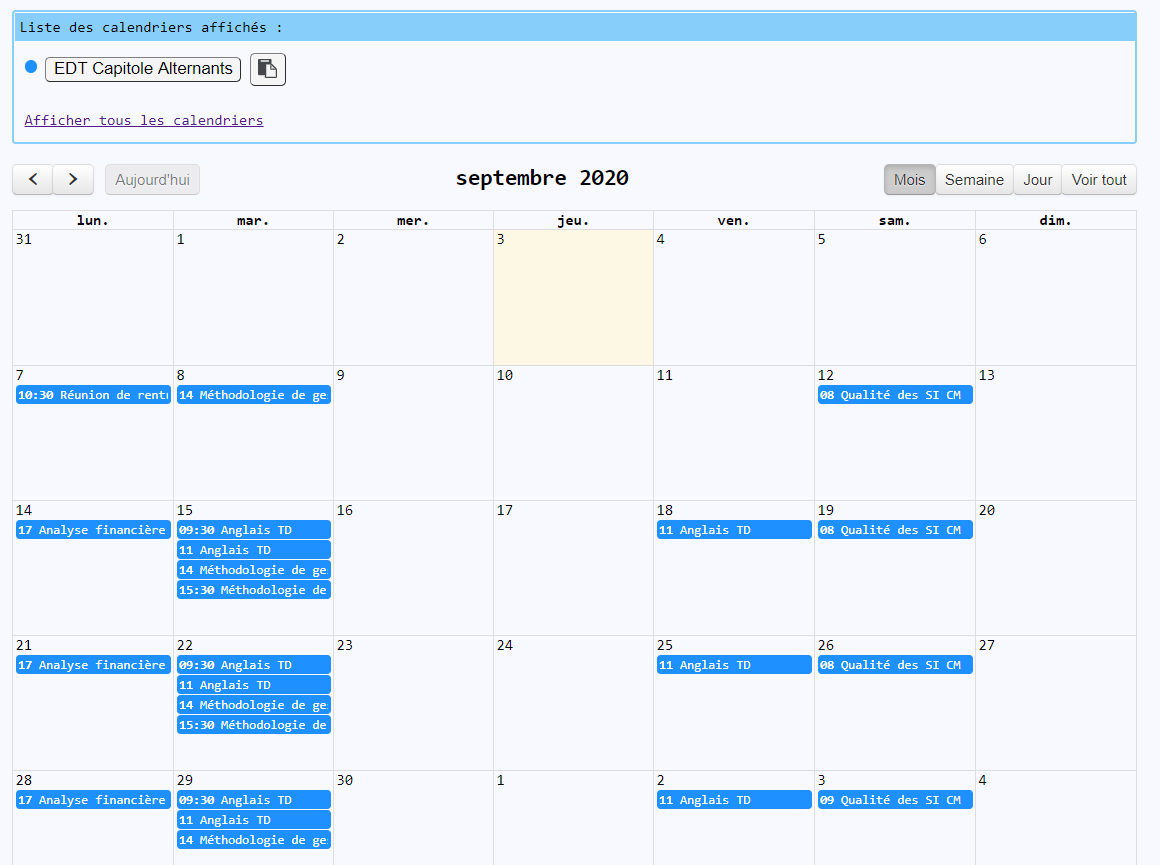
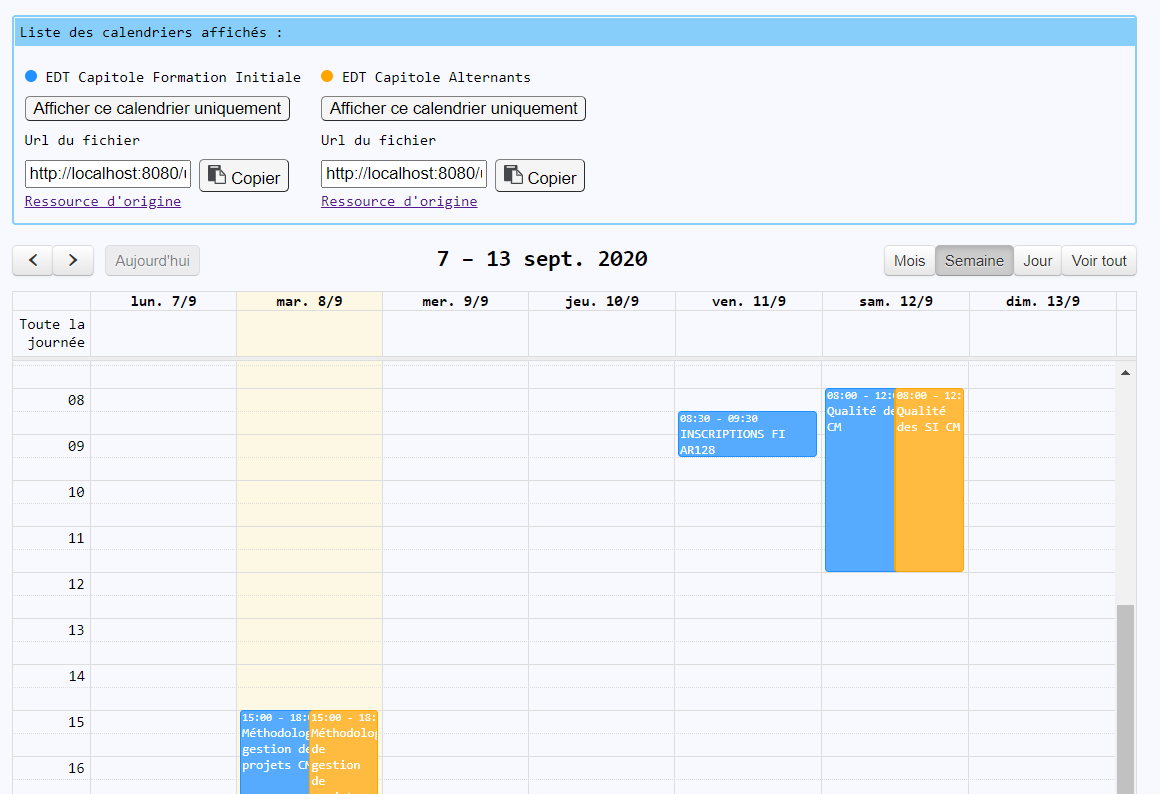
Preview improved + better UI

diff --git a/assets/js/custom_display.js b/assets/js/custom_display.js
@@ -1,9 +1,9 @@
 // Edit your ics sources here
 
 const all_ics_sources = [
-    // { url: 'ut3.ics?v=' + Date.now(), title: 'EDT Paul Sabatier', event_properties: { color: 'SeaGreen' } },
-    { url: 'ut1_fi.ics?v=' + Date.now(), sources: "https://ade-production.ut-capitole.fr/direct/index.jsp?showTree=false&days=0,1,2,3,4,5&login=visu&password=visu&locale=fr&projectId=17&resources=2273", title: 'EDT Capitole Formation Initiale', event_properties: { color: 'DodgerBlue' } },
-    { url: 'ut1_fa.ics?v=' + Date.now(), sources: "https://ade-production.ut-capitole.fr/direct/index.jsp?showTree=false&days=0,1,2,3,4,5&login=visu&password=visu&locale=fr&projectId=17&resources=3674", title: 'EDT Capitole Alternants', event_properties: { color: 'orange' } },
+    // { url: 'ut3.ics?v=' + Date.now(), source: "https://www.raphaelbuquet.com/tools/edt/", title: 'EDT Paul Sabatier', event_properties: { color: 'red' } },
+    { url: 'ut1_fi.ics?v=' + Date.now(), source: "https://ade-production.ut-capitole.fr/direct/index.jsp?showTree=false&days=0,1,2,3,4,5&login=visu&password=visu&locale=fr&projectId=17&resources=2273", title: 'EDT Capitole Formation Initiale', event_properties: { color: 'DodgerBlue' } },
+    { url: 'ut1_fa.ics?v=' + Date.now(), source: "https://ade-production.ut-capitole.fr/direct/index.jsp?showTree=false&days=0,1,2,3,4,5&login=visu&password=visu&locale=fr&projectId=17&resources=3674", title: 'EDT Capitole Alternants', event_properties: { color: 'orange' } },
 ]
 
 ////////////////////////////////////////////////////////////////////////////
@@ -60,7 +60,7 @@ $(document).ready(function () {
                             <span id="tooltip${cpt}">Copier</span>
                         </button>
                     </div>
-                    <a href="">Lien d'origine</a>
+                    <a href="${ics.source}" target="_blank">Ressource d'origine</a>
                 </div>
             </div>`);
 
@@ -113,7 +113,7 @@ $(document).ready(function () {
             eventLimit: true, // allow "more" link when too many events
             eventRender: function (event, element, view) {
                 if (view.name == "listMonth" || view.name == "listWeek") {
-                    element.find('.fc-list-item-title').append('<div style="margin-top:5px;"></div><span style="font-size: 0.9em">' + (event.description || 'no description') + '</span>' + ((event.loc) ? ('<span style="margin-top:5px;display: block"><b>Venue: </b>' + event.loc + '</span>') : ' ') + '</div>');
+                    element.find('.fc-list-item-title').append('<div style="margin-top:5px;"></div><span style="font-size: 0.9em">' + (event.description || 'no description') + '</span>' + ((event.loc) ? ('<span style="margin-top:5px;display: block"><b>Lieu: </b>' + event.loc + '</span>') : ' ') + '</div>');
                 } else if (view.name == "agendaWeek" || view.name == "agendaDay") {
                     element.qtip({
                         content: {
@@ -123,7 +123,7 @@ $(document).ready(function () {
                                         + ' - ' + event.end.format("HH:mm"))) + '</small><br/>' +
                                 '<b>' + event.title + '</b>' +
                                 ((event.description) ? ('<br/>' + event.description) : ' ') +
-                                ((event.loc) ? ('<br/><b>Venue: </b>' + event.loc) : ' ')
+                                ((event.loc) ? ('<br/><b>Lieu: </b>' + event.loc) : ' ')
                         },
                         style: {
                             classes: 'qtip-bootstrap qtip-rounded qtip-shadown qtip-light',
@@ -142,7 +142,7 @@ $(document).ready(function () {
                                         + ' - ' + event.end.format("HH:mm"))) + '</small><br/>' +
                                 '<b>' + event.title + '</b>' +
                                 ((event.description) ? ('<br/>' + event.description) : ' ') +
-                                ((event.loc) ? ('<br/><b>Venue: </b>' + event.loc) : ' ')
+                                ((event.loc) ? ('<br/><b>Lieu: </b>' + event.loc) : ' ')
                         },
                         style: {
                             classes: 'qtip-bootstrap qtip-rounded qtip-shadown qtip-light',

diff --git a/src/util/filesPath.js b/src/util/filesPath.js
@@ -11,8 +11,9 @@ module.exports = {
     },
     // Pour trouver ces URL, il faut aller à l'adresse suivante :
     // https://ade-production.ut-capitole.fr/direct/index.jsp?showTree=true&projectId=17&login=visu&password=visu&top=top.IFRechercherPlanningconnecte
+    // ATTENTION à ne pas avoir showOptions=false
     // puis chercher la bonne ressource, et une fois trouvé, explorer le code (ctrl+shift+c avant de cliquer sur l'élément dans l'arbre de gauche)
-    // une fois trouvé, il faut chercher un code commencant par Tree_XXXX et le nombre correspond au numéro de la ressource (2273 par exemple)
+    // une fois trouvé, il faut chercher un code commencant par Tree_XXXX avec le nombre correspond au numéro de la ressource (Tree_2273 par exemple)
     // il suffit alors d'ajouter l'argument suivant dans l'URL : resources=2273
     ut1_fa: {
         url: "https://ade-production.ut-capitole.fr/jsp/custom/modules/plannings/anonymous_cal.jsp?data=8241fc38732002144d480adf1160df25e0fa50826f0818af695b0a09b8713700ec7f554d6ed7ba1b8a72a25d105159e8dee3e8a66a2957ae",
